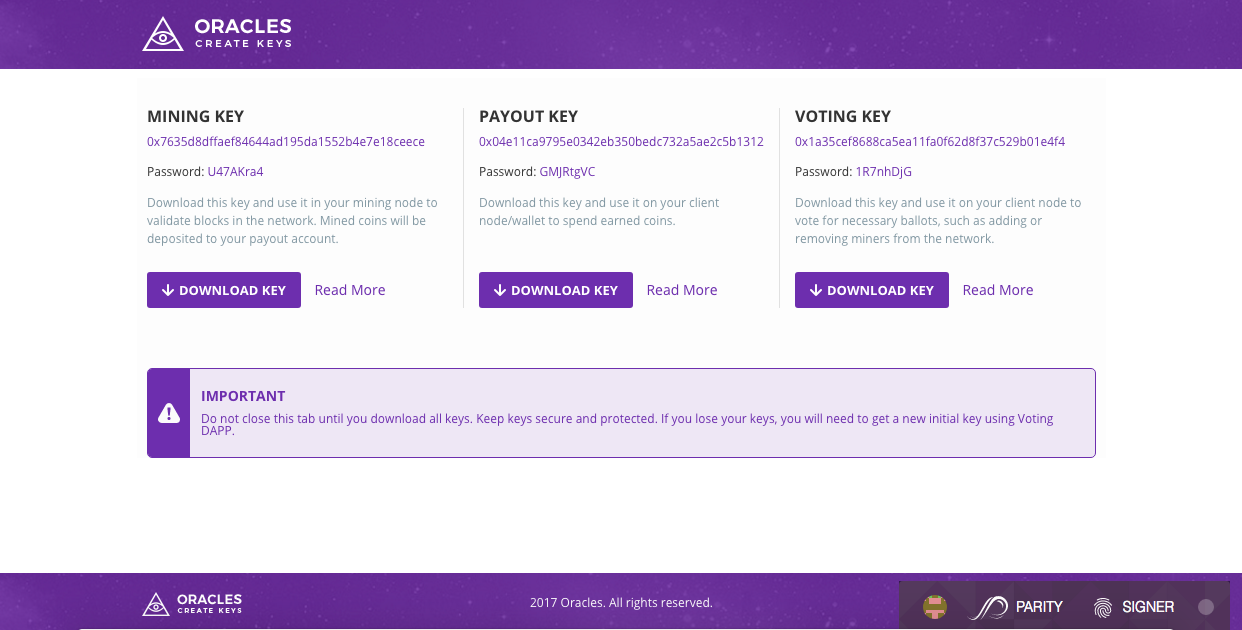
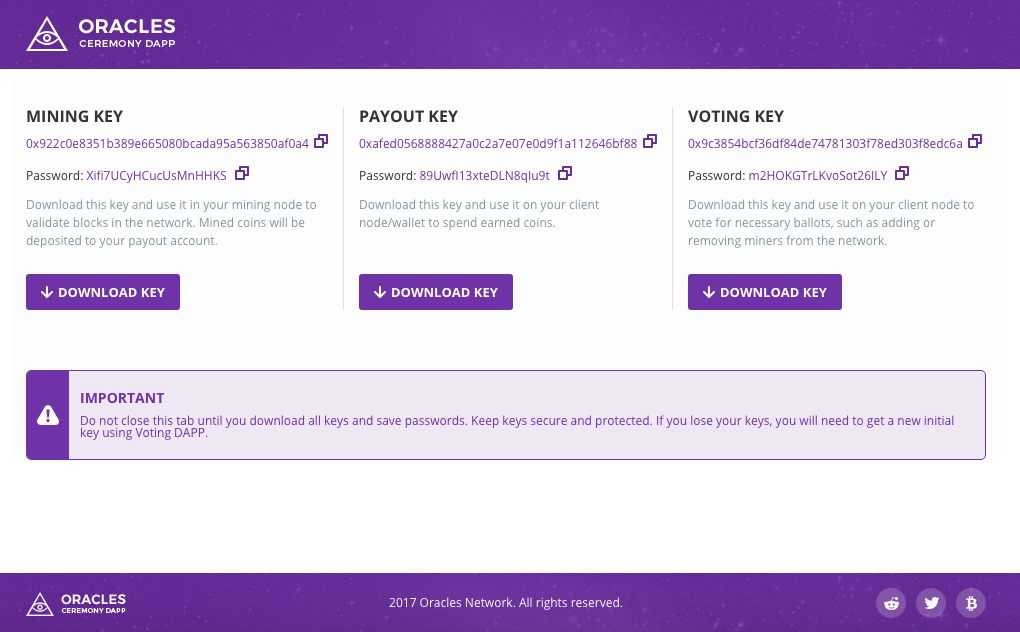
This closes #17

diff --git a/index.html b/index.html
@@ -12,6 +12,7 @@
   <!-- <meta property="og:image" content="https://www.notarycoin.com/assets/images/share.png"> -->
   <meta name="viewport" content="width=device-width, initial-scale=1.0">
   <link rel="stylesheet" href="./assets/stylesheets/index.css">
+  <link rel="stylesheet" type="text/css" href="./assets/stylesheets/toastr.min.css">
   <link rel="apple-touch-icon" href="./favicons/favicon-192x192.png">
   <link rel="icon" type="image/png" sizes="192x192" href="./favicons/favicon-192x192.png">
   <link rel="mask-icon" color="#6151cc" href="./favicons/safari-pinned-tab.svg">
@@ -77,6 +78,6 @@
     </div>
   </footer>
   <script src="./assets/javascripts/modules.js" type="text/javascript"></script>
-  <script src="./assets/javascripts/application.js?v=1.39" type="text/javascript"></script>
+  <script src="./assets/javascripts/application.js?v=1.40" type="text/javascript"></script>
 </body>
 </html>

diff --git a/assets/javascripts/application.js b/assets/javascripts/application.js
@@ -15,13 +15,7 @@ function generateAddress(cb) {
 }
 
 function generatePassword() {
-  var length = 8,
-      charset = "abcdefghijklmnopqrstuvwxyzABCDEFGHIJKLMNOPQRSTUVWXYZ0123456789",
-      retVal = "";
-  for (var i = 0, n = charset.length; i < length; ++i) {
-      retVal += charset.charAt(Math.floor(Math.random() * n));
-  }
-  return retVal;
+  return passwordGenerator(20, false);
 }
 function addValidator(web3, validatorViewObj, contractAddr, abi, cb) {
   console.log("***Add validator function***");

diff --git a/assets/javascripts/application/addressGeneration.js b/assets/javascripts/application/addressGeneration.js
@@ -15,11 +15,5 @@ function generateAddress(cb) {
 }
 
 function generatePassword() {
-  var length = 8,
-      charset = "abcdefghijklmnopqrstuvwxyzABCDEFGHIJKLMNOPQRSTUVWXYZ0123456789",
-      retVal = "";
-  for (var i = 0, n = charset.length; i < length; ++i) {
-      retVal += charset.charAt(Math.floor(Math.random() * n));
-  }
-  return retVal;
+  return passwordGenerator(20, false);
 }
